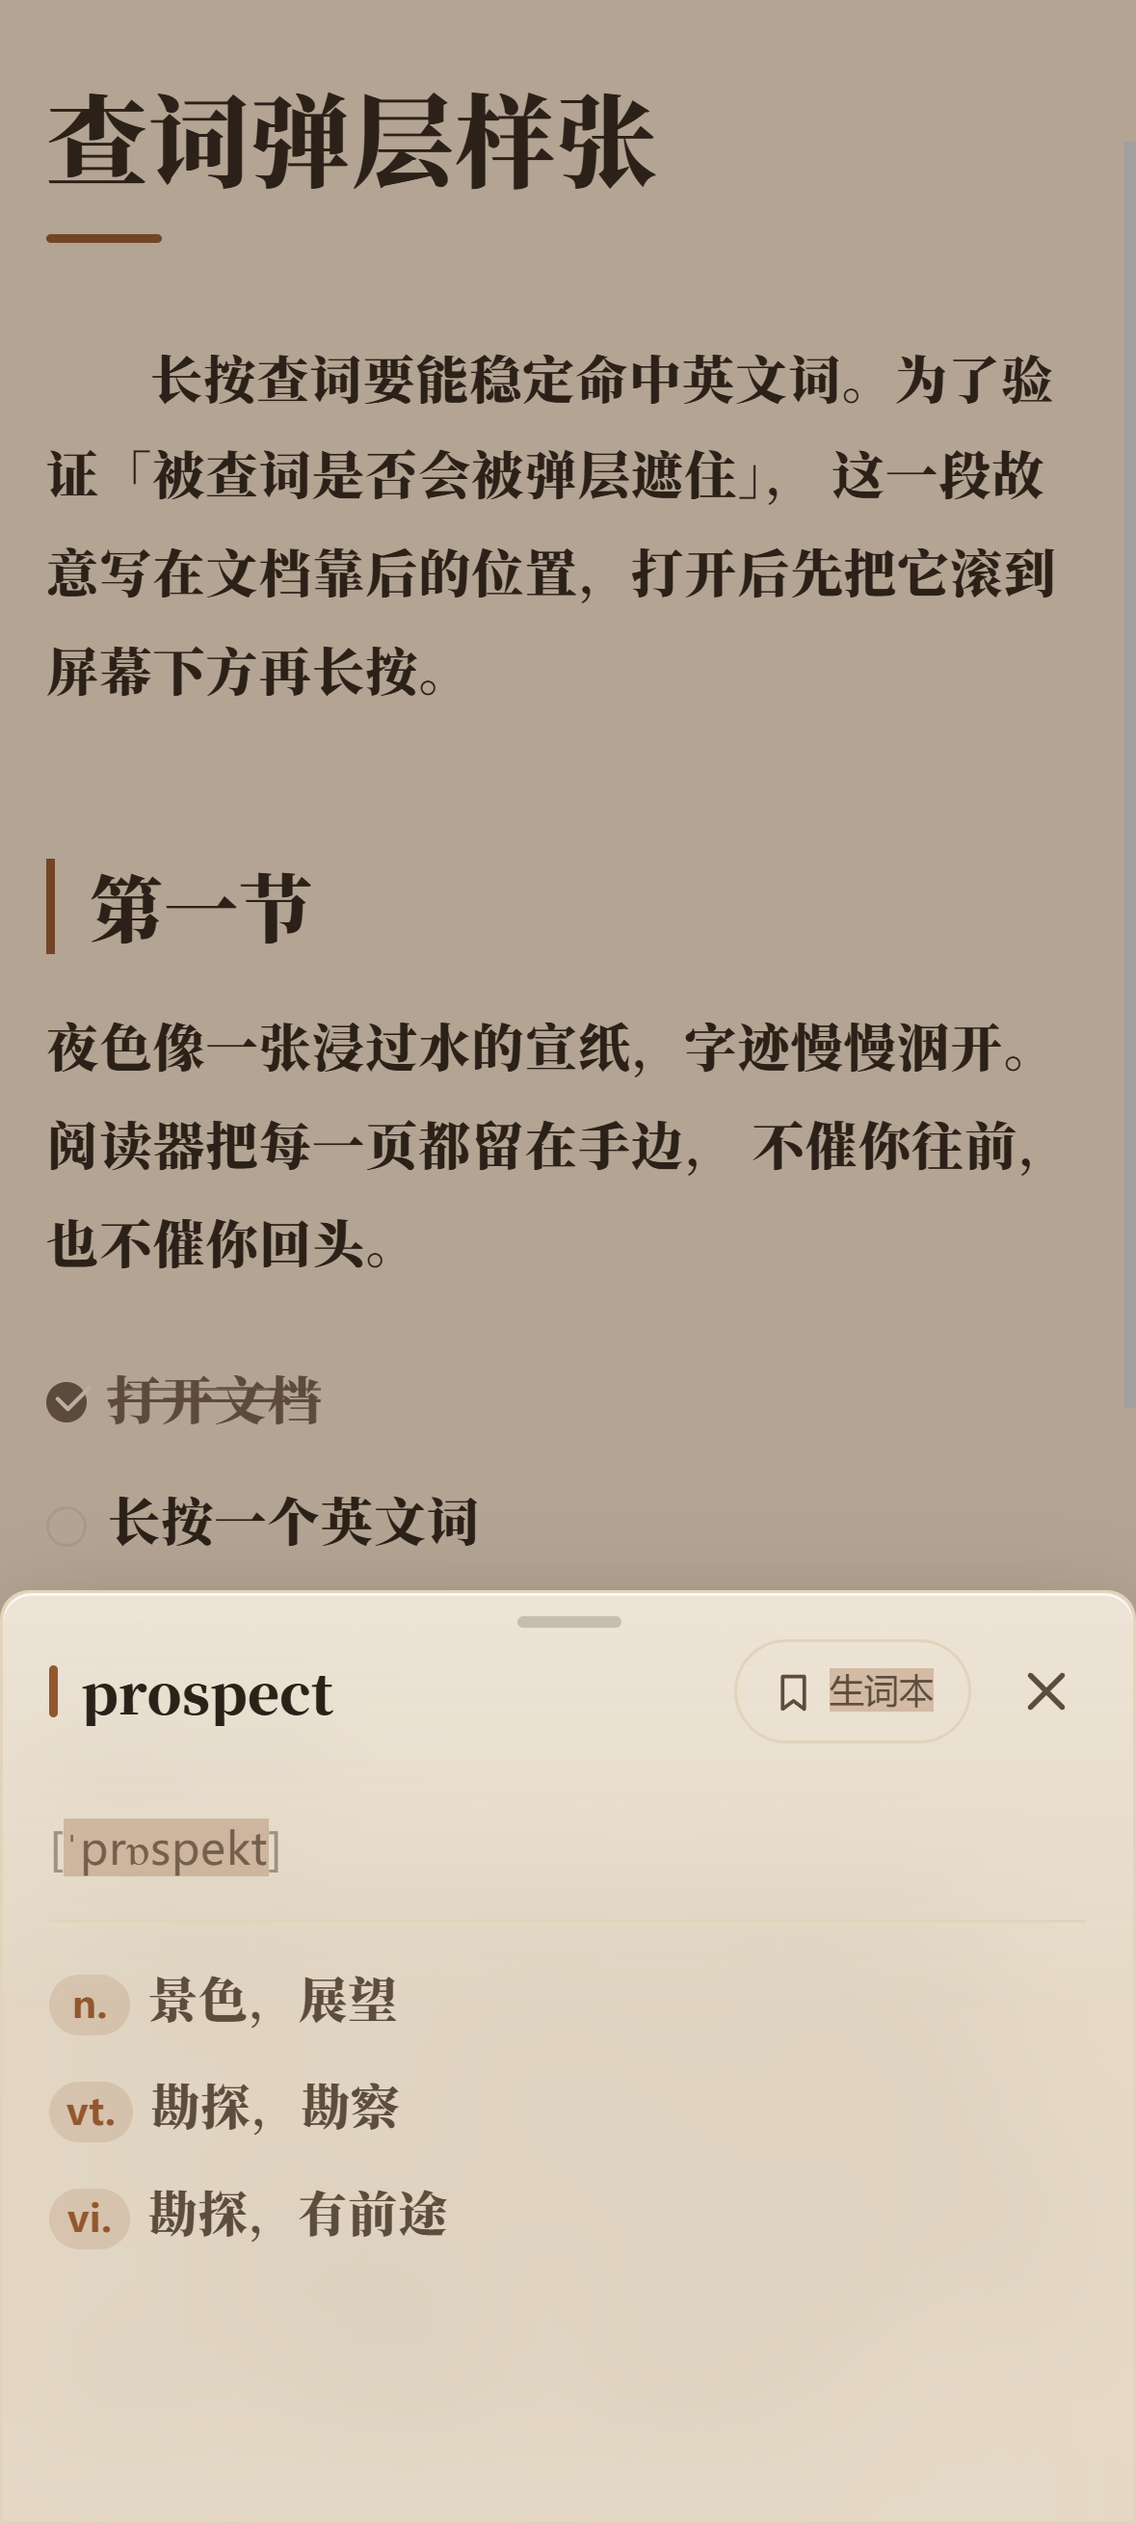
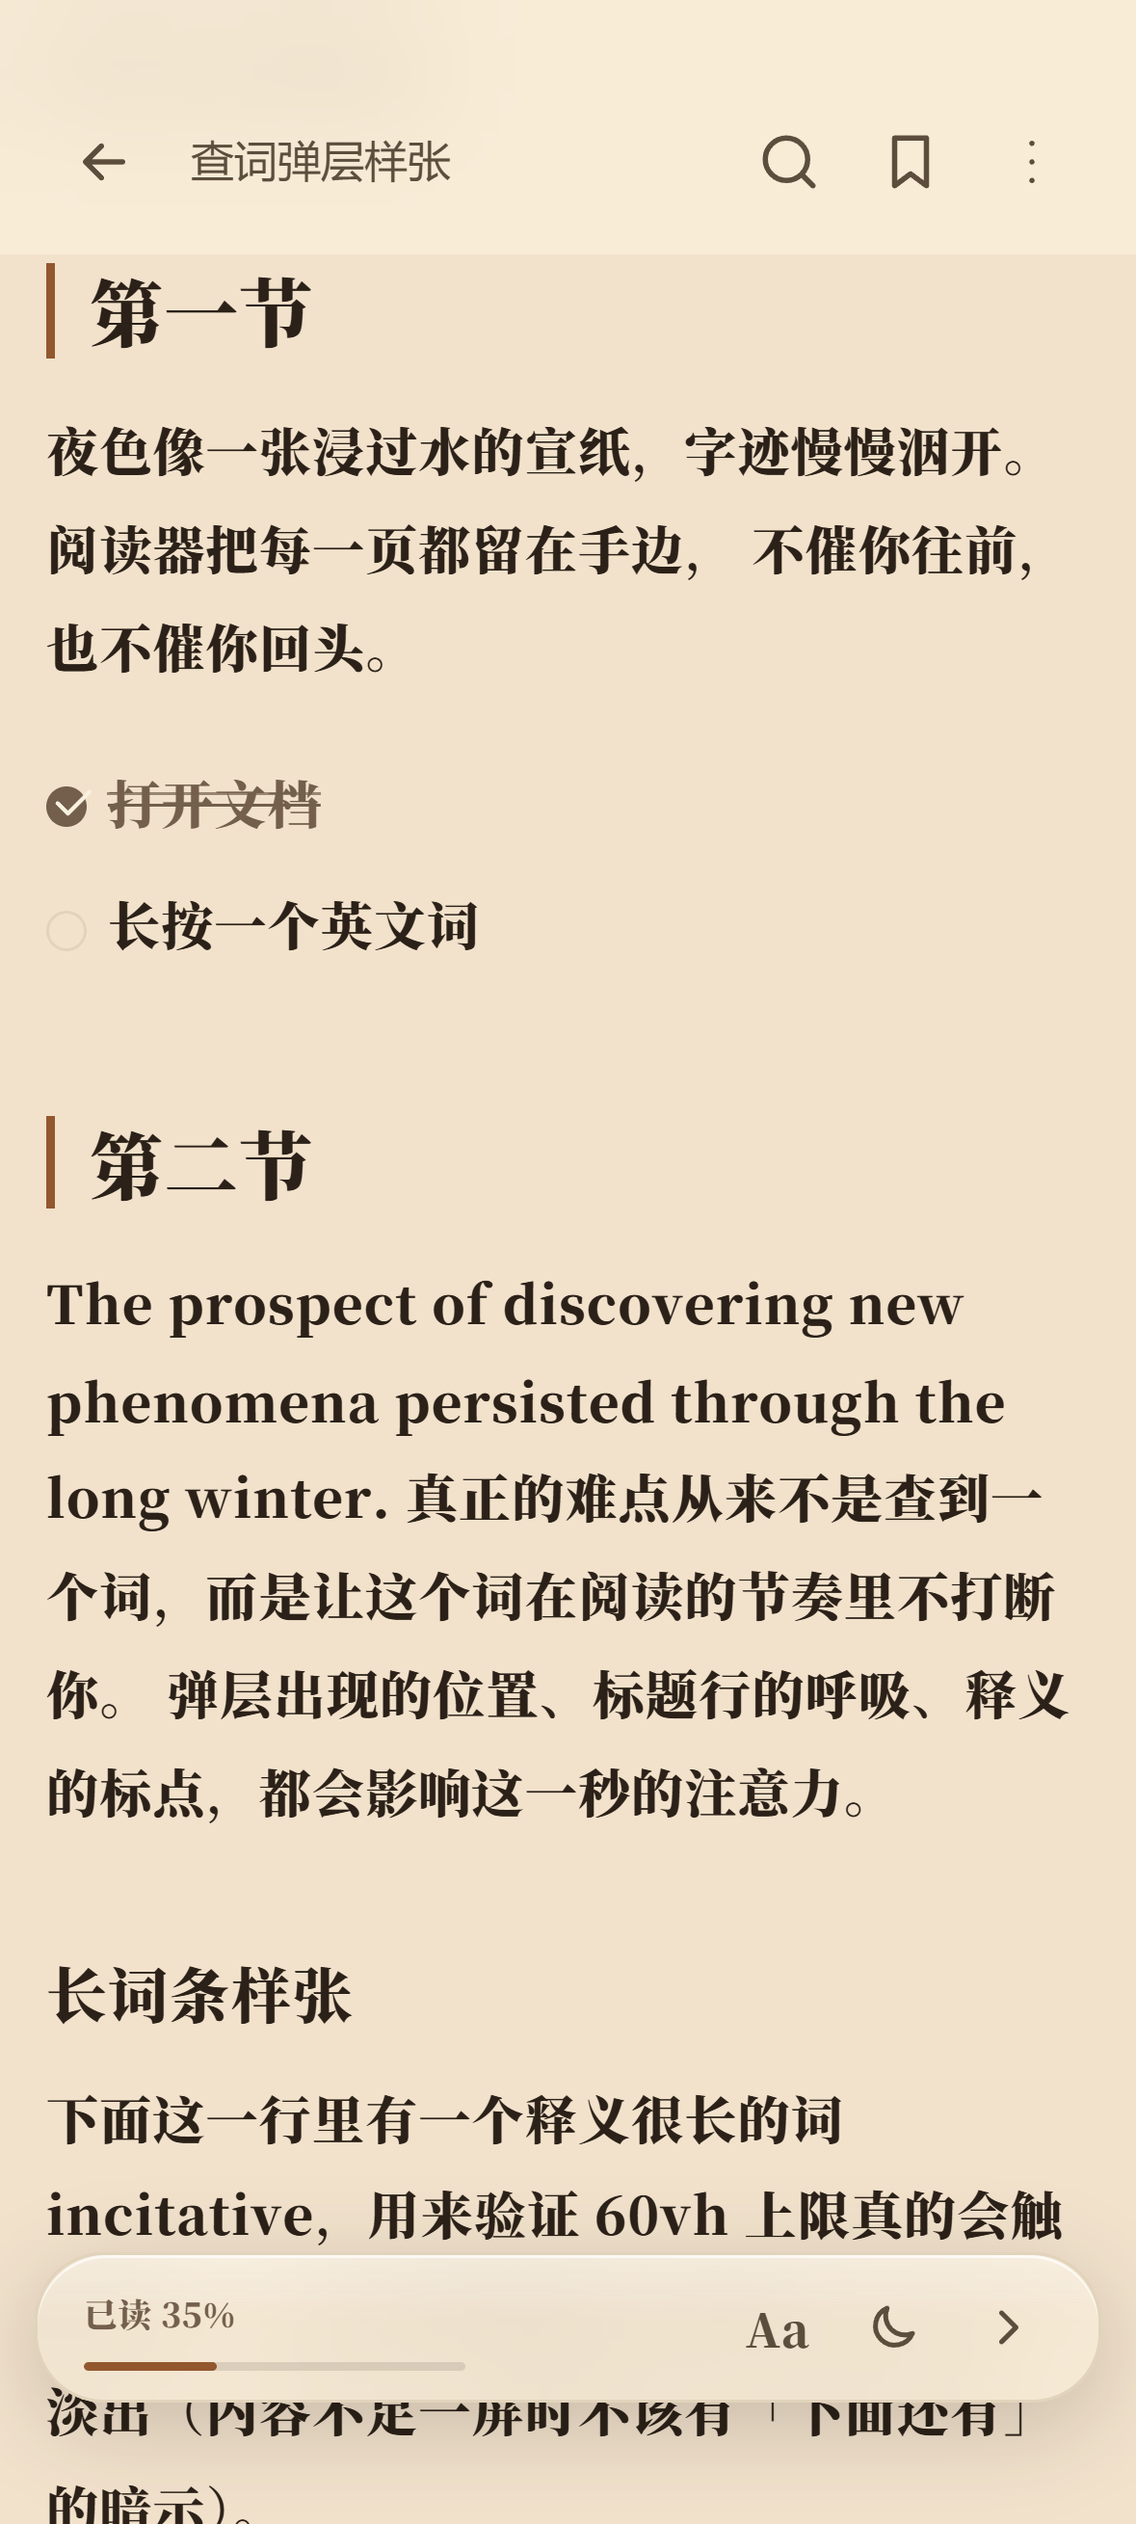
fix(lookup#8): 把手/标题行下拉关闭 + 只动 transform/opacity 的弹出
修前：弹层根本不能下拉（把手下拉 translateY 恒 0、把手与标题行都关不掉）；
入场用的是基类的 drawer-in —— 从**左侧**滑入，对底部弹层是错的方向。

改动：
- 抓取区：把手的 DOM 位置不动（仍是弹层第一个子元素，见 #1），
  给 sheet-drag 加 `handles[]`（多个抓取元素）+ `ignoreTargetSelector`
  排除标题行里的按钮（点它们是动作，不是拖拽）
- `--anim-sheet-up`（从下方升起）替代 drawer-in；simple/off 档换纯淡入/归零，
  沿用 tokens.css 现有的三档覆盖，不新增旁路
- 动效等级经 LookupHooks.motionLevel 注入：只有「完整」档挂跟手拖动，
  simple/off 仍可用遮罩/关闭键关掉（不把动画硬塞给关掉动效的用户）
- 卡片移除时用 MutationObserver 解绑手势

两个必须记下来的坑（都实测踩到）：
  1. 抓取区必须 `touch-action: none`。留 auto 时垂直拖动被浏览器判成滚动，
     先发 pointercancel 再接管，手势库收不到完整序列 —— 表现为「拖了没反应」
     （实测 data-dragging 一直是 null）
  2. 拖动时必须 `animation: none`，只关 transition 不够。入场动画用了
     `both` 填充，终帧优先级高于内联样式，JS 写的 translateY 被完全盖住：
     数据上跟手了、屏幕上一动不动（两张截图字节完全相同，靠 sha256 抓到的）
- 顺带修验收脚本：截图必须在 touchEnd 之前，「拖到一半」是按住的状态

打包产物断言：弹出动画用 transform+opacity ✓ / 跟手 translateY=96px ✓ /
把手下拉过半松手关闭 ✓ / 标题行下拉也能关闭 ✓
单测：sheet-drag 4 条新增（多元素拖、按钮排除、空数组）全过；
全量 640 个单测 + vite build 通过。

diff --git a/web/src/views/sheet-drag.ts b/web/src/views/sheet-drag.ts
@@ -15,7 +15,21 @@ export interface SheetDragOptions {
   readonly panel: HTMLElement;
   readonly scrim: HTMLElement | null;
   /** 抓取区域（把手/标题栏）；null 表示不启用。 */
-  readonly handle: HTMLElement | null;
+  readonly handle?: HTMLElement | null;
+  /**
+   * 多个抓取区域（把手 + 标题行都要能拽时用）。
+   *
+   * 与 `handle` 二选一，给了这个就忽略 `handle`。
+   * 为什么要多元素而不是「用一个覆盖两行的透明盖层」：盖层会盖住标题行里的
+   * 按钮（生词本/关闭），而把手又必须是弹层的第一个子元素（DOM 层级硬要求），
+   * 两者用一个元素都做不到。
+   */
+  readonly handles?: readonly HTMLElement[] | null;
+  /**
+   * 这些目标上按下时不启动拖拽（点按钮是动作，不是拖拽）。
+   * 传 CSS 选择器，命中 `closest()` 就跳过。
+   */
+  readonly ignoreTargetSelector?: string;
   /** 是否启用（由 main 根据动效强度决定）。 */
   readonly enabled: boolean;
   /** 松手吸附动画时长（ms），由 core/motion 的 sheetDuration 提供。 */
@@ -36,14 +50,18 @@ const MAX_DRAG = 320;
 
 export function enableSheetDrag(options: SheetDragOptions): SheetDragControl {
   const noop: SheetDragControl = { destroy: () => undefined };
-  if (!options.enabled || options.handle === null) return noop;
+  const grabs: readonly HTMLElement[] = options.handles ?? (options.handle === undefined || options.handle === null ? [] : [options.handle]);
+  if (!options.enabled || grabs.length === 0) return noop;
 
-  const { panel, scrim, handle, durationMs, onDismiss } = options;
+  const { panel, scrim, durationMs, onDismiss } = options;
+  const ignore = options.ignoreTargetSelector ?? null;
   let startY = 0;
   let startAt = 0;
   let dy = 0;
   let active = false;
   let finished = false;
+  /** 手势是在哪个抓取元素上开始的（setPointerCapture 要还给同一个）。 */
+  let capturedOn: HTMLElement | null = null;
 
   const clearInline = (): void => {
     panel.style.removeProperty('transform');
@@ -54,12 +72,18 @@ export function enableSheetDrag(options: SheetDragOptions): SheetDragControl {
 
   const onDown = (event: PointerEvent): void => {
     if (event.button !== undefined && event.button !== 0) return;
+    // 按钮等交互元素上按下是「点」，不是「拽」
+    if (ignore !== null) {
+      const target = event.target;
+      if (target instanceof Element && target.closest(ignore) !== null) return;
+    }
     active = true;
     startY = event.clientY;
     // 用 Date.now() 而不是 performance.now()：便于单测用假时钟精确控制手势时长
     startAt = Date.now();
     dy = 0;
-    handle.setPointerCapture?.(event.pointerId);
+    capturedOn = event.currentTarget instanceof HTMLElement ? event.currentTarget : null;
+    capturedOn?.setPointerCapture?.(event.pointerId);
   };
 
   const onMove = (event: PointerEvent): void => {
@@ -122,17 +146,21 @@ export function enableSheetDrag(options: SheetDragOptions): SheetDragControl {
     finish(false);
   };
 
-  handle.addEventListener('pointerdown', onDown);
-  handle.addEventListener('pointermove', onMove);
-  handle.addEventListener('pointerup', onUp);
-  handle.addEventListener('pointercancel', onCancel);
+  for (const grab of grabs) {
+    grab.addEventListener('pointerdown', onDown);
+    grab.addEventListener('pointermove', onMove);
+    grab.addEventListener('pointerup', onUp);
+    grab.addEventListener('pointercancel', onCancel);
+  }
 
   return {
     destroy() {
-      handle.removeEventListener('pointerdown', onDown);
-      handle.removeEventListener('pointermove', onMove);
-      handle.removeEventListener('pointerup', onUp);
-      handle.removeEventListener('pointercancel', onCancel);
+      for (const grab of grabs) {
+        grab.removeEventListener('pointerdown', onDown);
+        grab.removeEventListener('pointermove', onMove);
+        grab.removeEventListener('pointerup', onUp);
+        grab.removeEventListener('pointercancel', onCancel);
+      }
       clearInline();
     },
   };

diff --git a/web/src/views/lookup.ts b/web/src/views/lookup.ts
@@ -13,7 +13,9 @@
 
 import { wordAt } from '../core/text';
 import { formLine, normalizePhonetic, parseTranslation } from '../core/dict-format';
+import { allowsTransform, sheetDuration, type MotionLevel } from '../core/motion';
 import { lookup } from '../data/dict';
+import { enableSheetDrag, type SheetDragControl } from './sheet-drag';
 import type { LookupResult } from '../core/types';
 import { el, icon } from './app';
 
@@ -53,11 +55,19 @@ function revealWordAbovePanel(article: HTMLElement, panel: HTMLElement, wordRect
   window.scrollBy({ top: delta, behavior: 'auto' });
 }
 
-/** 查词卡片的动作钩子（由 main 注入：生词本 + 历史）。 */
+/** 查词卡片的动作钩子（由 main 注入：生词本 + 历史 + 动效等级）。 */
 export interface LookupHooks {
   readonly isSaved: (word: string) => boolean;
   readonly onToggleWord: (entry: { word: string; phonetic: string; translation: string }) => void;
   readonly onRecord: (word: string) => void;
+  /**
+   * 当前动效强度（lookup #8）。
+   *
+   * 可选：不传时按 full 处理（旧调用点与单测不必跟着改）。
+   * 「动效：关/简约」下不挂跟手拖动 —— 把动画硬塞给关掉动效的用户是错的，
+   * 他们仍然可以点遮罩或关闭键。
+   */
+  readonly motionLevel?: () => MotionLevel;
 }
 
 /** 当前挂着的卡片/提示，供系统返回键关闭。 */
@@ -251,18 +261,47 @@ function renderCard(
   // 首帧就要按内容高度算一次：短词条不该显示「还能滚」的暗示
   window.requestAnimationFrame(syncFade);
 
-  return el(
+  // 下拉关闭（lookup #8）：把手与整个标题行都能抓。
+  //
+  // 把手必须是弹层的第一个子元素（#1 的硬要求），所以不能用一个盖层把
+  // 「把手 + 标题行」包起来；改成给 sheet-drag 传多个抓取元素，
+  // 并在标题行里排除两个按钮（点它们是动作，不是拖拽）。
+  const panel = el(
+    'div',
+    { class: 'drawer drawer--bottom glass lookup-panel', role: 'dialog', 'aria-label': '释义' },
+    handle,
+    head,
+    scroller,
+  );
+
+  const root = el(
     'div',
     { class: 'drawer-root lookup-root', 'data-testid': 'lookup-card' },
     mask,
-    el(
-      'div',
-      { class: 'drawer drawer--bottom glass lookup-panel', role: 'dialog', 'aria-label': '释义' },
-      handle,
-      head,
-      scroller,
-    ),
+    panel,
   );
+
+  const level = activeHooks?.motionLevel?.() ?? 'full';
+  const drag: SheetDragControl = enableSheetDrag({
+    panel,
+    scrim: mask,
+    handles: [handle, head],
+    ignoreTargetSelector: '.lookup__action',
+    // 与其它 bottom sheet 同口径：只有「动效：完整」才挂跟手拖动；
+    // simple/off 仍可点遮罩或关闭键关掉（不强行塞动画给关掉动效的用户）。
+    enabled: allowsTransform(level),
+    durationMs: sheetDuration(level),
+    onDismiss: () => closeLookupCard(),
+  });
+  // 卡片被移除时解绑，避免手势处理器留在已脱离文档的节点上
+  const observer = new MutationObserver(() => {
+    if (root.isConnected) return;
+    drag.destroy();
+    observer.disconnect();
+  });
+  observer.observe(article, { childList: true });
+
+  return root;
 }
 
 /**

diff --git a/web/src/views/sheet-drag.test.ts b/web/src/views/sheet-drag.test.ts
@@ -116,3 +116,88 @@ describe('下拉关闭', () => {
     expect(panel.style.transform).toBe('');
   });
 });
+
+/**
+ * 多抓取元素 + 排除按钮（lookup #8 给查词弹层加的）。
+ *
+ * 查词弹层的把手必须是弹层的第一个子元素（不能包进一个组合容器），
+ * 标题行里又有两个按钮，所以需要：多个抓取元素、样式选择器排除按钮。
+ */
+describe('多抓取元素', () => {
+  function setupMulti() {
+    document.body.innerHTML = '';
+    const panel = document.createElement('section');
+    const scrim = document.createElement('div');
+    const handle = document.createElement('span');
+    const head = document.createElement('header');
+    const button = document.createElement('button');
+    button.className = 'lookup__action';
+    const title = document.createElement('h2');
+    head.append(title, button);
+    panel.append(handle, head);
+    document.body.append(scrim, panel);
+    const onDismiss = vi.fn();
+    const control = enableSheetDrag({
+      panel,
+      scrim,
+      handles: [handle, head],
+      ignoreTargetSelector: '.lookup__action',
+      enabled: true,
+      durationMs: 220,
+      onDismiss,
+    });
+    return { panel, handle, head, button, control, onDismiss };
+  }
+
+  it('把手能拖', () => {
+    const { panel, handle, control, onDismiss } = setupMulti();
+    pointer(handle, 'pointerdown', 100);
+    pointer(handle, 'pointermove', 260);
+    expect(panel.style.transform).toContain('translateY(160px)');
+    pointer(handle, 'pointerup', 260);
+    vi.advanceTimersByTime(260);
+    expect(onDismiss).toHaveBeenCalledTimes(1);
+    control.destroy();
+  });
+
+  it('标题行也能拖', () => {
+    const { panel, head, control, onDismiss } = setupMulti();
+    pointer(head, 'pointerdown', 100);
+    pointer(head, 'pointermove', 260);
+    expect(panel.style.transform).toContain('translateY(160px)');
+    pointer(head, 'pointerup', 260);
+    vi.advanceTimersByTime(260);
+    expect(onDismiss).toHaveBeenCalledTimes(1);
+    control.destroy();
+  });
+
+  it('标题行里的按钮上按下不启动拖拽（点按钮是动作）', () => {
+    const { panel, button, control, onDismiss } = setupMulti();
+    pointer(button, 'pointerdown', 100);
+    pointer(button, 'pointermove', 300);
+    pointer(button, 'pointerup', 300);
+    vi.advanceTimersByTime(300);
+    expect(panel.style.transform).toBe('');
+    expect(onDismiss).not.toHaveBeenCalled();
+    control.destroy();
+  });
+
+  it('handles 为空数组时不挂手势', () => {
+    const panel = document.createElement('section');
+    const onDismiss = vi.fn();
+    const control = enableSheetDrag({
+      panel,
+      scrim: null,
+      handles: [],
+      enabled: true,
+      durationMs: 220,
+      onDismiss,
+    });
+    pointer(panel, 'pointerdown', 100);
+    pointer(panel, 'pointermove', 300);
+    pointer(panel, 'pointerup', 300);
+    vi.advanceTimersByTime(300);
+    expect(panel.style.transform).toBe('');
+    control.destroy();
+  });
+});

diff --git a/web/src/styles/dict.css b/web/src/styles/dict.css
@@ -305,10 +305,67 @@
 }
 
 
+/* 抓取区（把手 + 标题行）的桌面端光标提示 */
+.lookup-panel .lookup__handle,
+.lookup-panel .drawer__head {
+  cursor: grab;
+  /*
+   * 关键：抓取区必须关掉浏览器的默认触摸行为。
+   * 留 auto 时，垂直拖动会被浏览器判定成「滚动」，先发 pointercancel
+   * 再接管手势 —— 手势库永远收不到完整的 down/move/up 序列，
+   * 表现就是「按着把手往下拖完全没反应」（实测 data-dragging 一直是 null）。
+   * 只关抓取区，正文滚动区 .lookup__body 保持 auto，滚动不受影响。
+   */
+  touch-action: none;
+}
+
+.lookup-panel[data-dragging='1'] .lookup__handle,
+.lookup-panel[data-dragging='1'] .drawer__head {
+  cursor: grabbing;
+}
+
+/* 标题行里的按钮是「点」不是「拽」，光标要还原 */
+.lookup-panel .drawer__head .lookup__action {
+  cursor: pointer;
+}
+
 /* ── 阶段 E4：玻璃底查词面板 / 生词按钮 / 加载失败降级 ── */
 .lookup-panel {
   border-top: var(--hairline-width) solid var(--glass-edge, var(--rule));
   border-radius: var(--r-xl) var(--r-xl) 0 0;
+  /*
+   * 弹出只动 transform + opacity（lookup #8 的硬约束）。
+   * 基类 `.drawer:not(.drawer--top)` 用的是 drawer-in（从左侧滑入），
+   * 对底部弹层是错的方向，这里换成 sheet-up（从下方升起）。
+   */
+  animation: var(--anim-sheet-up) var(--motion-sheet-dur) var(--ease-decel) both;
+  /* 下拉跟手期间不要过渡，否则跟手会「粘手」；松手后的吸附由 JS 写 inline transition */
+  will-change: transform, opacity;
+}
+
+@keyframes sheet-up {
+  from {
+    transform: translateY(100%);
+    opacity: 0;
+  }
+  to {
+    transform: translateY(0);
+    opacity: 1;
+  }
+}
+
+/*
+ * 拖动中：关掉入场动画与过渡。
+ *
+ * 为什么必须 animation: none —— 入场动画用了 `both` 填充模式，动画结束后
+ * 终帧（translateY(0) opacity(1)）仍然生效，而 CSS 动画的优先级高于内联样式，
+ * 于是 JS 写入的 translateY 会被完全盖住：数据上跟手了（data-dragging=1、
+ * inline translateY(96px)），屏幕上面板一动不动（实测两张截图字节完全相同）。
+ * 只关 transition 不够，必须连 animation 一起关。
+ */
+.lookup-panel[data-dragging='1'] {
+  animation: none;
+  transition: none;
 }
 
 .lookup-panel .drawer__head {

diff --git a/web/src/styles/tokens.css b/web/src/styles/tokens.css
@@ -178,6 +178,9 @@
   --anim-card-in: card-in;
   --anim-drawer-in: drawer-in;
   --anim-mask-in: mask-in;
+  /* 底部弹层（lookup sheet）：从下方升起。抽屉的 drawer-in 是从左侧滑入，
+   * 底部弹层用它会出现「横向飘进来」的错位感，所以单独一个 keyframes。 */
+  --anim-sheet-up: sheet-up;
 
   /* ── 布局 ─────────────────────────────────────── */
   --measure: 38em;
@@ -318,6 +321,7 @@
     --anim-card-in: motion-fade-in;
     --anim-drawer-in: motion-fade-in;
     --anim-mask-in: motion-fade-in;
+    --anim-sheet-up: motion-fade-in;
   }
 }
 
@@ -338,6 +342,7 @@
   --anim-card-in: motion-fade-in;
   --anim-drawer-in: motion-fade-in;
   --anim-mask-in: motion-fade-in;
+  --anim-sheet-up: motion-fade-in;
 }
 
 :root[data-motion='off'] {
@@ -358,6 +363,7 @@
   --anim-card-in: none;
   --anim-drawer-in: none;
   --anim-mask-in: none;
+  --anim-sheet-up: none;
 }
 
 /* ══════════════════════════════════════════════════

diff --git a/web/src/main.ts b/web/src/main.ts
@@ -718,6 +718,7 @@ async function bootstrap(): Promise<void> {
       isSaved: (candidate) => hasWord(store.getState().words, candidate),
       onToggleWord: (entry) => addOrRemoveWord(entry),
       onRecord: (candidate) => recordLookup(candidate),
+      motionLevel: () => motionLevel(),
     });
   }
 
